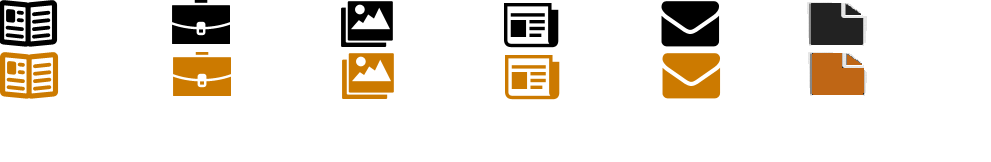
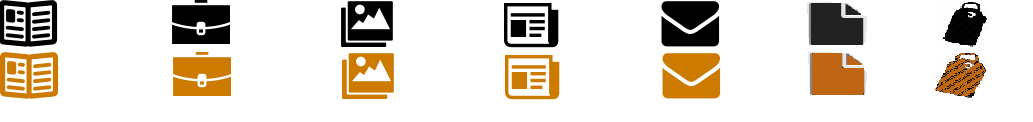
agregando vista crear marca

diff --git a/templates/crearMarca.html b/templates/crearMarca.html
@@ -1,13 +1,7 @@
-<!--
-Author: W3layouts
-Author URL: http://w3layouts.com
-License: Creative Commons Attribution 3.0 Unported
-License URL: http://creativecommons.org/licenses/by/3.0/
--->
 <!DOCTYPE HTML>
 <html>
 <head>
-<title>Jewelexa Fashion Category Flat Bootstrap Responsive Web Template| Mail :: w3layouts</title>
+<title>Crear Articulo</title>
      <script src="http://ajax.googleapis.com/ajax/libs/jquery/2.1.1/jquery.min.js"></script>
 {% load staticfiles %}
 {# Load the tag library #}
@@ -20,20 +14,14 @@ License URL: http://creativecommons.org/licenses/by/3.0/
 {# Display django.contrib.messages as Bootstrap alerts #}
 {% bootstrap_messages %}
 <link href="{% static 'css/style.css' %}" rel='stylesheet' type='text/css' />
-<!--Custom Theme files-->
-<meta name="viewport" content="width=device-width, initial-scale=1">
-<meta http-equiv="Content-Type" content="text/html; charset=utf-8" />
-<meta name="keywords" content="Jewelex Responsive web template, Bootstrap Web Templates, Flat Web Templates, Andriod Compatible web template, 
-Smartphone Compatible web template, free webdesigns for Nokia, Samsung, LG, SonyErricsson, Motorola web design" 
-		/>
+
 <script type="application/x-javascript"> addEventListener("load", function() { setTimeout(hideURLbar, 0); }, false); function hideURLbar(){ window.scrollTo(0,1); } </script>
-<script  src="{% static 'js/modernizr.custom.js' %}"></script>
- <!--start-smoth-scrolling-->
+
 <script type="text/javascript" src="{% static 'js/move-top.js' %}" ></script>
 <script type="text/javascript" src="{% static 'js/jquery.easing.1.3.js' %}"></script>
 		<script type="text/javascript">
 			jQuery(document).ready(function($) {
-				$(".scroll").click(function(event){		
+				$(".scroll").click(function(event){
 					event.preventDefault();
 					$('html,body').animate({scrollTop:$(this.hash).offset().top},1000);
 				});
@@ -49,7 +37,7 @@ Smartphone Compatible web template, free webdesigns for Nokia, Samsung, LG, Sony
 		<!--animated-css-->
 	<!--webfonts-->
 		<link href='http://fonts.googleapis.com/css?family=Vidaloka|Roboto+Slab:400,300,700' rel='stylesheet' type='text/css'>
-	<!--webfonts-->	
+	<!--webfonts-->
 </head>
 <body>
 <!--header-->
@@ -66,10 +54,10 @@ Smartphone Compatible web template, free webdesigns for Nokia, Samsung, LG, Sony
 								<li class="nab"><a href="gallery.html"><i class="gallery"></i><p>Gallery</p><div class="clearfix"></div></a></li>
 								<li class="naa" ><a href="404.html"><i class="settings"></i><p>Services</p><div class="clearfix"></div></a></li>
 								<li class="nac"><a href="news.html"><i class="message"></i><p>News</p><div class="clearfix"></div></a></li>
-								<li class="active"><a href="mail.html"><i class="send"></i><p class="active">Mail Us</p><div class="clearfix"></div></a></li>
-							    <li class="nae"><a href="crearArticulo.html"><i class="crearArticulo"></i><p>Nuevo Articulo</p><div class="clearfix"></div></a></li>
-                                <li class="nae"><a href="crearMarca.html"><i class="crearMarca"></i><p>Nueva Marca</p><div class="clearfix"></div></a></li>
-                            </ul>
+								<li class="nac"><a href="mail.html"><i class="send"></i><p>Mail Us</p><div class="clearfix"></div></a></li>
+                                <li class="nac"><a href="crearArticulo.html"><i class="crearArticulo"></i><p class="active">Nuevo Articulo</p><div class="clearfix"></div></a></li>
+                                <li class="active"><a href="crearMarca.html"><i class="crearMarca"></i><p class="active">Nueva Marca</p><div class="clearfix"></div></a></li>
+								</ul>
 						</div>
 					</div>
 						<script>
@@ -85,61 +73,17 @@ Smartphone Compatible web template, free webdesigns for Nokia, Samsung, LG, Sony
 	<div class="Contact">
 		<div class="container">
 				<div class="contact-section wow bounceIn" data-wow-delay="0.4s">
-			<h3>Contact Us </h3>
-			 <form>
-				 <input type="text" class="text" value="Enter Name" onfocus="this.value = '';" onblur="if (this.value == '') {this.value = 'Enter Name';}">
-				 <input type="text" class="text" value="Enter Mail" onfocus="this.value = '';" onblur="if (this.value == '') {this.value = 'Enter Mail';}">
-				 <input type="text" class="text" value="Subject" onfocus="this.value = '';" onblur="if (this.value == '') {this.value = 'Subject';}">
-				<textarea value="message:" onfocus="this.value = '';" onblur="if (this.value == '') {this.value = 'Enter Message... ';}">Enter Message...</textarea>
-
-				 <div class="clearfix"> </div>
-				 <input type="submit" value="SEND MESSAGE">
-			 </form>
+			<h3>Nueva Marca</h3>
+			<form action="/your-name/" method="post">
+                {% csrf_token %}
+                {{ form }}
+                <input type="submit" value="Crear" />
+            </form>
 	 	 </div>
-<iframe width="600" height="450" frameborder="0" style="border:0" src="https://www.google.com/maps/embed/v1/place?q=47%20607%20La%20Pata%2C%20Buenos%20Aires&key=AIzaSyDSI-oEdzU-6cql8jaRduT1IJHyowrybK8" allowfullscreen></iframe>
-             </div>
-
+        </div>
 	</div>
 </div>
-	<!--start-information-->
-	<div class="information-section">
-		<div class="container">
-			<div class="information-grids wow bounceInLeft" data-wow-delay="0.4s">
-				<div class="col-md-4 info-grid loction">
-					<h3>Location</h3>
-					 <ul class="loction-text">
-							<li>10-765 mg-Road,</li>
-							<li>Washington, DC, United States,</li>	
-							<li>ud-19832-6578.,</li>
-							<li><img src="{% static 'images/mail.png' %}" alt=""></li>
-							<li><a href="mailto:info@example.com">mail@example.com</a></li>
-							<div class="clearfix"> </div>	
-						</ul>
 
-				</div>
-				<div class="col-md-4 info-grid information">
-					<h3>Information</h3>
-					<div class="list styled arrow-list2 two">
-						<ul>
-							<li><a href="#"><img src="{% static 'images/tick.png' %}" alt=""/>Nulla ullamcorper porttitor</a></li>
-							<li><a href="#"><img src="{% static 'images/tick.png' %}" alt=""/>Fusce consequat porta leo</a></li>
-							<li><a href="#"><img src="{% static 'images/tick.png' %}" alt=""/>Consectetur adipiscing elit</a></li>
-							<li><a href="#"><img src="{% static 'images/tick.png' %}" alt=""/>Netus et malesuada fames</a></li>
-								<div class="clearfix"></div>
-						</ul>
-					</div>
-				</div>
-				<div class="col-md-4 info-grid custom">
-					<h3>Custom Block</h3>
-					<h4>Quisque maximus purus in </h4>
-					<p>Duis ullamcorper at lectus ac accum
-					san. Quisque pellentesque et mauris tellus. Proin 
-					pellentesque lectus  magna null.</p>
-				</div>
-					<div class="clearfix"></div>
-			</div>
-		</div>
-	</div>
 	<!--start-footer-->
 		<div class="copy-right-section  wow bounceInRight" data-wow-delay="0.4s">
 				<div class="container">
@@ -167,12 +111,12 @@ Smartphone Compatible web template, free webdesigns for Nokia, Samsung, LG, Sony
 								  			containerID: 'toTop', // fading element id
 											containerHoverID: 'toTopHover', // fading element hover id
 											scrollSpeed: 1200,
-											easingType: 'linear' 
+											easingType: 'linear'
 								 		};
 										*/
-										
+
 										$().UItoTop({ easingType: 'easeOutQuart' });
-										
+
 									});
 					</script>
 					<a href="#home" id="toTop" class="scroll" style="display: block;"> <span id="toTopHover" style="opacity: 1;"> </span></a>

diff --git a/templates/news.html b/templates/news.html
@@ -70,6 +70,8 @@ Smartphone Compatible web template, free webdesigns for Nokia, Samsung, LG, Sony
 								<li class="active"><a href="news.html"><i class="message"></i><p class="active">News</p><div class="clearfix"></div></a></li>
 								<li class="nae"><a href="mail.html"><i class="send"></i><p>Mail Us</p><div class="clearfix"></div></a></li>
 							    <li class="nae"><a href="crearArticulo.html"><i class="crearArticulo"></i><p>Nuevo Articulo</p><div class="clearfix"></div></a></li>
+                                <li class="nae"><a href="crearMarca.html"><i class="crearMarca"></i><p>Nueva Marca</p><div class="clearfix"></div></a></li>
+
                             </ul>
 						</div>
 					</div>

diff --git a/templates/single.html b/templates/single.html
@@ -69,6 +69,8 @@ Smartphone Compatible web template, free webdesigns for Nokia, Samsung, LG, Sony
 								<li class="active"><a href="news.html"><i class="message"></i><p>News</p><div class="clearfix"></div></a></li>
 								<li class="nab"><a href="mail.html"><i class="send"></i><p>Mail Us</p><div class="clearfix"></div></a></li>
 							    <li class="nae"><a href="crearArticulo.html"><i class="crearArticulo"></i><p>Nuevo Articulo</p><div class="clearfix"></div></a></li>
+                                <li class="nae"><a href="crearMarca.html"><i class="crearMarca"></i><p>Nueva Marca</p><div class="clearfix"></div></a></li>
+
                             </ul>
 						</div>
 					</div>

diff --git a/templates/404.html b/templates/404.html
@@ -71,7 +71,7 @@ Smartphone Compatible web template, free webdesigns for Nokia, Samsung, LG, Sony
 								<li class="nac"><a href="news.html"><i class="message"></i><p>News</p><div class="clearfix"></div></a></li>
 								<li class="nae"><a href="mail.html"><i class="send"></i><p>Mail Us</p><div class="clearfix"></div></a></li>
 							    <li class="nae"><a href="crearArticulo.html"><i class="crearArticulo"></i><p>Nuevo Articulo</p><div class="clearfix"></div></a></li>
-
+                                <li class="nae"><a href="crearMarca.html"><i class="crearMarca"></i><p>Nueva Marca</p><div class="clearfix"></div></a></li>
                             </ul>
 						</div>
 					</div>

diff --git a/templates/index.html b/templates/index.html
@@ -122,6 +122,7 @@ Smartphone Compatible web template, free webdesigns for Nokia, Samsung, LG, Sony
 								<li class="nac"><a href="news.html"><i class="message"></i><p>News</p><div class="clearfix"></div></a></li>
 								<li class="nae"><a href="mail.html"><i class="send"></i><p>Mail Us</p><div class="clearfix"></div></a></li>
 							    <li class="nae"><a href="crearArticulo.html"><i class="crearArticulo"></i><p>Nuevo Articulo</p><div class="clearfix"></div></a></li>
+                               <li class="nae"><a href="crearMarca.html"><i class="crearMarca"></i><p>Nueva Marca</p><div class="clearfix"></div></a></li>
                             </ul>
 						</div>
 					</div>

diff --git a/templates/gallery.html b/templates/gallery.html
@@ -73,6 +73,7 @@ Smartphone Compatible web template, free webdesigns for Nokia, Samsung, LG, Sony
 								<li class="nac"><a href="news.html"><i class="message"></i><p>News</p><div class="clearfix"></div></a></li>
 								<li class="nae"><a href="mail.html"><i class="send"></i><p>Mail Us</p><div class="clearfix"></div></a></li>
 							    <li class="nae"><a href="crearArticulo.html"><i class="crearArticulo"></i><p>Nuevo Articulo</p><div class="clearfix"></div></a></li>
+                              <li class="nae"><a href="crearMarca.html"><i class="crearMarca"></i><p>Nueva Marca</p><div class="clearfix"></div></a></li>
                             </ul>
 						</div>
 					</div>

diff --git a/templates/crearArticulo.html b/templates/crearArticulo.html
@@ -56,7 +56,8 @@
 								<li class="nac"><a href="news.html"><i class="message"></i><p>News</p><div class="clearfix"></div></a></li>
 								<li class="nac"><a href="mail.html"><i class="send"></i><p>Mail Us</p><div class="clearfix"></div></a></li>
                                 <li class="active"><a href="crearArticulo.html"><i class="crearArticulo"></i><p class="active">Nuevo Articulo</p><div class="clearfix"></div></a></li>
-							</ul>
+                                <li class="nae"><a href="crearMarca.html"><i class="crearMarca"></i><p>Nueva Marca</p><div class="clearfix"></div></a></li>
+                            </ul>
 						</div>
 					</div>
 						<script>

diff --git a/templates/css/style.css b/templates/css/style.css
@@ -58,7 +58,7 @@ ul.navig li p{
 	margin:0;
 }
 ul.navig li a i{
-	width:64px;
+	width:84px;
 	height:64px;
 	background:url(../images/icons.png)no-repeat;
 	display: inline-block;
@@ -80,6 +80,9 @@ ul.navig li a i.send{
 }
 ul.navig li a i.crearArticulo{
 	background-position: -818px 18px;
+}
+ul.navig li a i.crearMarca{
+	background-position: -978px 18px;
 }
 /*-- Header parts Ends Here --*/
 

diff --git a/joyeriaApp/views.py b/joyeriaApp/views.py
@@ -24,6 +24,17 @@ def mail(request):
 def single(request):
     return render(request, 'single.html')
 
+def crear_marca(request):
+    if request.method == 'POST':
+        marca_form = MarcaForm(request.POST)
+        if marca_form.is_valid():
+            marca = marca_form.save()
+            return HttpResponse('Guardado correctamente')
+    else:
+        marca_form = MarcaForm()
+
+    return render(request, 'crearMarca.html', {'form': marca_form})
+
 def crear_articulo(request):
     if request.method == 'POST':
         articulo_form = ArticuloForm(request.POST, request.FILES)

diff --git a/joyeriaApp/urls.py b/joyeriaApp/urls.py
@@ -11,4 +11,5 @@ urlpatterns = [
     url(r'^index', views.index, name='index'),
     url(r'^single', views.single, name='single'),
     url(r'^crearArticulo', views.crear_articulo, name='crearArticulo'),
+    url(r'^crearMarca', views.crear_marca, name='crearMarca'),
 ]
